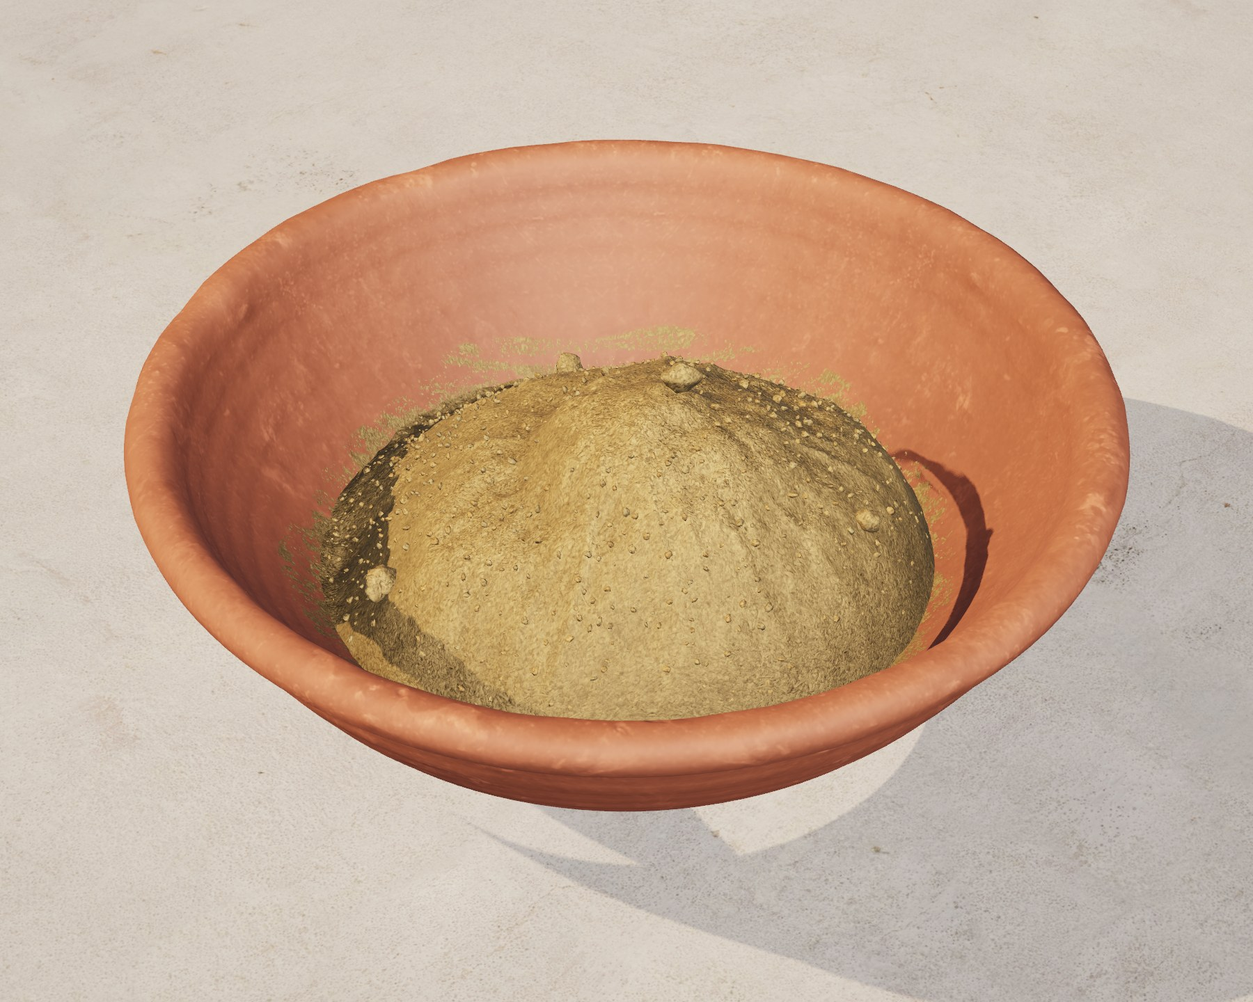
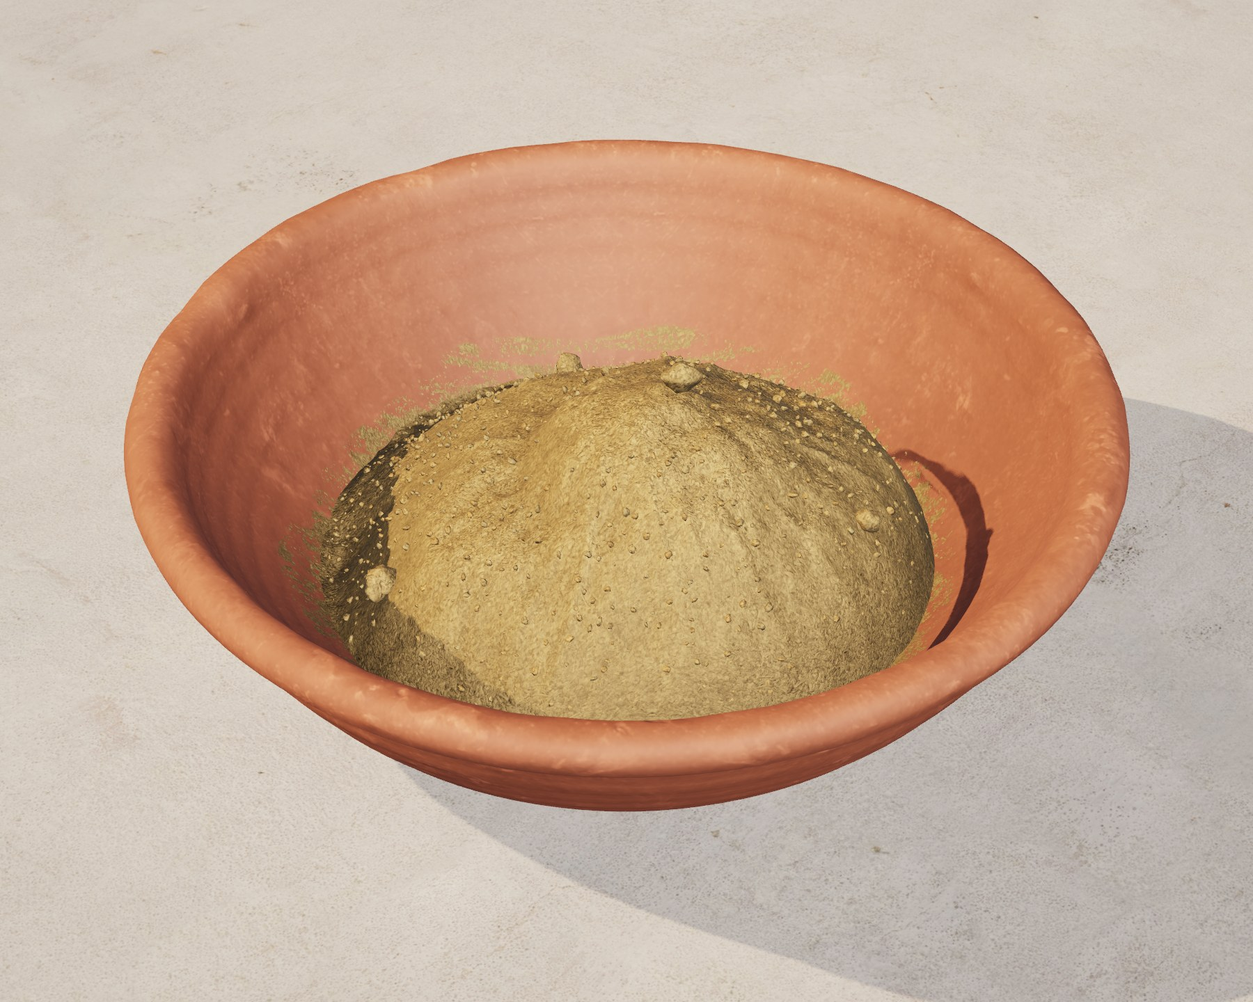
Admit only staff roles at the invite gate, withdraw every session, analyse a reassigned participant once, and let clay vessels stop the sun (DR-105)
hasSiteAccess admitted any signed-in account, so a role-less Google sign-up
could start the demo or enrol in a study without an invite. Withdrawal now
flags every session of the participant, and analytics and the dashboard
telemetry read a reassigned participant in the condition of their analysed
session only. The fired-clay material casts shadows from both faces, so the
shadow bias no longer erases the lower wall and sunlight stops leaking under
the bowl. The 28 Door 1 stills that hold a bowl or pot were rendered again.

diff --git a/src/server/research/analytics.ts b/src/server/research/analytics.ts
@@ -100,46 +100,40 @@ export interface MetricDistribution {
   nullCount: number;
 }
 
-const ANALYSABLE = "NOT ss.excluded AND NOT ss.withdrawn";
+const ANALYSED_SESSIONS_SQL = `
+  SELECT DISTINCT ON (participant_id) participant_id, id, condition_id, excluded, withdrawn
+    FROM study_sessions
+   WHERE study_id = $1 AND condition_id IS NOT NULL
+   ORDER BY participant_id, period DESC, id DESC`;
 
-/**
- * Outcome distributions from derived_scores: one value per analysable, allocated session and
- * administration (latest row per session, metric, version, assessment and map phase).
- *
- * Final review scoring-07:
- *  - response-level rows (item.key_match, rubric.rating.*) are left out: one session has one row
- *    per item, so a per-session distribution would keep an arbitrary item (the per-item and
- *    per-rubric statistics are on the dashboard);
- *  - each administration is its own distribution: concept-map scores by map phase (one assessment
- *    yields a pre and a post map), every other score by assessment kind, code and version, so the
- *    pre-test, post-test and transfer totals are never pooled (prior knowledge vs outcome);
- *  - concept-map scores are read against the study's analysis reference map only (scoring-04).
- */
+const ANALYSABLE = "NOT an.excluded AND NOT an.withdrawn";
+
 export async function outcomeDistributions(q: Q, studyId: string, opts: { includeExcluded?: boolean } = {}): Promise<MetricDistribution[]> {
   const r = await q.query<{ metric_name: string; metric_version: string; condition_id: string; value: number | null }>(
-    `WITH ar AS (${ANALYSIS_REFERENCES_SQL})
-     SELECT DISTINCT ON (ds.session_id, ds.metric_name, ds.metric_version, ds.assessment_id, cm.phase)
+    `WITH ar AS (${ANALYSIS_REFERENCES_SQL}), an AS (${ANALYSED_SESSIONS_SQL})
+     SELECT DISTINCT ON (an.id, ds.metric_name, ds.metric_version, ds.assessment_id, cm.phase)
             CASE WHEN cm.phase IS NOT NULL THEN ds.metric_name || ' (' || cm.phase::text || ')'
                  ELSE ds.metric_name || ' (' || a.kind::text || ' ' || a.code || ' v' || a.version || ')' END AS metric_name,
-            ds.metric_version, ss.condition_id, ds.value
+            ds.metric_version, an.condition_id, ds.value
        FROM derived_scores ds JOIN study_sessions ss ON ss.id = ds.session_id
+       JOIN an ON an.participant_id = ss.participant_id
        JOIN assessments a ON a.id = ds.assessment_id
        LEFT JOIN concept_maps cm ON cm.id = ds.concept_map_id
        LEFT JOIN ar ON ar.assessment_id = ds.assessment_id
-      WHERE ss.study_id = $1 AND ss.condition_id IS NOT NULL AND ($2 OR (${ANALYSABLE}))
+      WHERE ss.study_id = $1 AND ($2 OR (${ANALYSABLE}))
         AND ds.response_id IS NULL
         AND (ds.concept_map_id IS NULL OR ds.reference_map_id IS NOT DISTINCT FROM ar.reference_map_id)
-      ORDER BY ds.session_id, ds.metric_name, ds.metric_version, ds.assessment_id, cm.phase, ds.computed_at DESC`,
+      ORDER BY an.id, ds.metric_name, ds.metric_version, ds.assessment_id, cm.phase, ss.period DESC, ds.computed_at DESC`,
     [studyId, opts.includeExcluded ?? false],
   );
   return group(r.rows);
 }
 
-/** Behavioural metric distributions from derived_metrics. */
 export async function behaviourDistributions(q: Q, studyId: string, opts: { includeExcluded?: boolean } = {}): Promise<MetricDistribution[]> {
   const r = await q.query<{ metric_name: string; metric_version: string; condition_id: string; value: number | null }>(
-    `SELECT dm.metric_name, dm.metric_version, dm.condition_id, dm.value
-       FROM derived_metrics dm JOIN study_sessions ss ON ss.id = dm.session_id
+    `WITH an AS (${ANALYSED_SESSIONS_SQL})
+     SELECT dm.metric_name, dm.metric_version, dm.condition_id, dm.value
+       FROM derived_metrics dm JOIN an ON an.id = dm.session_id
       WHERE dm.study_id = $1 AND ($2 OR (${ANALYSABLE}))`,
     [studyId, opts.includeExcluded ?? false],
   );
@@ -157,10 +151,10 @@ function group(rows: { metric_name: string; metric_version: string; condition_id
   return [...by.values()].sort((a, b) => (a.metricName < b.metricName ? -1 : 1));
 }
 
-/** Correspondence details (navigation vs concept map) summed per condition. */
 export async function correspondenceSummary(q: Q, studyId: string) {
   const r = await q.query<{ condition_id: string; details: Record<string, number | boolean> }>(
-    `SELECT dm.condition_id, dm.details FROM derived_metrics dm JOIN study_sessions ss ON ss.id = dm.session_id
+    `WITH an AS (${ANALYSED_SESSIONS_SQL})
+     SELECT dm.condition_id, dm.details FROM derived_metrics dm JOIN an ON an.id = dm.session_id
       WHERE dm.study_id = $1 AND dm.metric_name = 'nav.map_correspondence' AND ${ANALYSABLE}`,
     [studyId],
   );
@@ -183,13 +177,10 @@ export interface TransitionMatrix {
   transitions: number;
 }
 
-/**
- * First-order transition matrices between knowledge categories of consecutive concept visits
- * (visit = exposure interval; ../metrics/navigation.ts), per condition.
- */
 export async function transitionMatrices(q: Q, studyId: string): Promise<TransitionMatrix[]> {
   const sess = await q.query<{ id: string; condition_id: string; snapshot_id: string | null }>(
-    `SELECT ss.id, ss.condition_id, ss.snapshot_id FROM study_sessions ss WHERE ss.study_id = $1 AND ${ANALYSABLE}`,
+    `WITH an AS (${ANALYSED_SESSIONS_SQL})
+     SELECT an.id, an.condition_id, ss.snapshot_id FROM an JOIN study_sessions ss ON ss.id = an.id WHERE ${ANALYSABLE}`,
     [studyId],
   );
   const labels = [...KNOWLEDGE_CATEGORY_CODES];

diff --git a/tests/integration/study-engine-review-fixes.test.ts b/tests/integration/study-engine-review-fixes.test.ts
@@ -30,10 +30,13 @@ import {
   completeFamiliarisation,
   submitAssessment,
   syncPosition,
+  withdraw,
   type DeviceReport,
   type EnrollableStudy,
   type OpenedSession,
 } from "../../src/server/study/engine";
+import { behaviourDistributions, outcomeDistributions, transitionMatrices } from "../../src/server/research/analytics";
+import { loadDashboard } from "../../src/server/research/dashboard";
 import { seedInstrumentDefinitions } from "../../src/server/study/instruments";
 import {
   TEST_URL,
@@ -279,5 +282,42 @@ describe.skipIf(!TEST_URL)("study engine: final review fixes", { timeout: 60_000
     expect(attempts.rows).toEqual([{ session_id: s.sessionId, attempt: 1 }, { session_id: out.sessionId, attempt: 2 }]);
     const order = (await state(out.sessionId)).traditionOrder;
     expect(order).toEqual((await state(s.sessionId)).traditionOrder);
+  });
+
+  it("a reassigned participant is analysed once, in the arm of the session that replaced the abandoned one, and withdrawing withdraws both", async () => {
+    const study = await activeStudy({ steps: BASIC_STEPS, webglFailurePolicy: "reassign" }, BASIC);
+    const s = await allocatedTo(study, "immersive");
+    await completeOnboarding(t.pool, s.sessionId);
+    const out = await recordWalkthroughWebglFailure(t.pool, s.sessionId, { webglVersion: null, softwareRenderer: false }, { appBuild: BUILD });
+    expect(out.kind).toBe("reassigned");
+    if (out.kind !== "reassigned") return;
+    const conditionOf = async (sessionId: string) => (await one<{ c: string }>(t.pool, "SELECT condition_id AS c FROM study_sessions WHERE id = $1", [sessionId])).c;
+    const immersiveId = await conditionOf(s.sessionId);
+    const twoDId = await conditionOf(out.sessionId);
+    await t.pool.query(
+      `INSERT INTO derived_metrics (study_id, participant_id, session_id, condition_id, metric_name, metric_version, value, input_event_count, input_sha256, pipeline_version)
+       VALUES ($1, $2, $3, $4, 'time.exposure_total_ms', '1.0.0', 1000, 0, $5, 'test')`,
+      [study.id, s.participantId, s.sessionId, immersiveId, "a".repeat(64)],
+    );
+    await t.pool.query(
+      "INSERT INTO derived_scores (session_id, participant_id, assessment_id, metric_name, metric_version, value, pipeline_version) VALUES ($1, $2, $3, 'assessment.key_match_total', '1.0.0', 2, 'test')",
+      [s.sessionId, s.participantId, ids["fx-pre"]],
+    );
+    const preTotal = async () => (await outcomeDistributions(t.pool, study.id)).find((d) => d.metricName === "assessment.key_match_total (pretest fx-pre v1)");
+    expect(Object.keys((await preTotal())?.byCondition ?? {})).toEqual([twoDId]);
+    expect((await preTotal())!.byCondition[twoDId]).toEqual([2]);
+    expect(await behaviourDistributions(t.pool, study.id)).toEqual([]);
+    expect((await transitionMatrices(t.pool, study.id)).map((m) => m.conditionId)).toEqual([twoDId]);
+    const ownRows = async () => (await loadDashboard(t.pool, study.id))!.telemetry.sessions.filter((r) => r.sessionId === s.sessionId || r.sessionId === out.sessionId);
+    const dashboard = (await loadDashboard(t.pool, study.id))!;
+    expect((await ownRows()).map((r) => [r.sessionId, r.conditionId])).toEqual([[out.sessionId, twoDId]]);
+    expect(dashboard.knowledge.find((k) => k.label === "fx-pre v1 (pretest)")!.byCondition.find((c) => c.conditionId === immersiveId)?.stats.n ?? 0).toBe(0);
+
+    await withdraw(t.pool, { participantId: s.participantId, sessionId: out.sessionId, reason: "no_time" });
+    const flags = await t.pool.query<{ id: string; withdrawn: boolean }>("SELECT id, withdrawn FROM study_sessions WHERE participant_id = $1 ORDER BY period", [s.participantId]);
+    expect(flags.rows).toEqual([{ id: s.sessionId, withdrawn: true }, { id: out.sessionId, withdrawn: true }]);
+    expect(await preTotal()).toBeUndefined();
+    expect(await behaviourDistributions(t.pool, study.id, { includeExcluded: true })).toHaveLength(0);
+    expect(await ownRows()).toEqual([]);
   });
 });

diff --git a/src/server/access/site-access.ts b/src/server/access/site-access.ts
@@ -1,14 +1,3 @@
-/**
- * Server-side half of the invite gate (deployment source change S11).
- *
- * src/proxy.ts redirects visitors without an invite cookie (or a staff session cookie) before a
- * page renders, but it only verifies the cookie's signature and does not look at the database,
- * and it trusts the mere presence of a staff session cookie. The entry points that create a
- * study or demo session (`enterStudy`, `startPublicDemo`) call `requireSiteAccess` as well, so a
- * forged staff cookie or a revoked code can never start one:
- *  - a verified staff session (Better Auth, via getStaffPrincipal) passes;
- *  - otherwise the invite cookie must verify AND its code must not be revoked.
- */
 import "server-only";
 
 import { cookies } from "next/headers";
@@ -17,23 +6,23 @@ import { cache } from "react";
 
 import { invitePath } from "@/lib/access/invite-paths";
 import { serverEnv } from "@/lib/env";
+import { isStaffRole } from "@/lib/permissions/roles";
 import { getStaffPrincipal } from "@/server/auth/staff";
 import { getPool } from "@/server/db/client";
 
 import { INVITE_COOKIE, verifyInviteAccess } from "./invite-cookie";
 import { inviteNotRevoked } from "./invites";
 
-/** Does this request carry valid site access? Memoised per request. */
 export const hasSiteAccess = cache(async (): Promise<boolean> => {
   const token = (await cookies()).get(INVITE_COOKIE)?.value;
   if (token !== undefined) {
     const verified = await verifyInviteAccess(token, serverEnv().BETTER_AUTH_SECRET);
     if (verified.ok && (await inviteNotRevoked(getPool(), verified.claims.inviteId))) return true;
   }
-  return (await getStaffPrincipal()) !== null;
+  const principal = await getStaffPrincipal();
+  return principal !== null && principal.roles.some(isStaffRole);
 });
 
-/** Redirects to the invite page (remembering `next`) unless the request has site access. */
 export async function requireSiteAccess(next: string): Promise<void> {
   if (!(await hasSiteAccess())) redirect(invitePath(next));
 }

diff --git a/src/server/study/engine.ts b/src/server/study/engine.ts
@@ -1712,12 +1712,6 @@ export async function closeStaleSessions(pool: Pool | PoolClient, studyId: strin
 export const WITHDRAWAL_REASONS = ["not_stated", "no_longer_wish_to_take_part", "no_time", "technical_problem", "felt_unwell"] as const;
 export type WithdrawalReason = (typeof WITHDRAWAL_REASONS)[number];
 
-/**
- * Withdraws the participant at any point: a `withdrawn` consent record, the participant marked
- * withdrawn, and the open session (if any) flagged withdrawn. Nothing is deleted: the data
- * already collected is kept under the study's retention policy (config.retentionDays); removing
- * it is a separate, reasoned purge by the research team (app.research_purge_reason).
- */
 export async function withdraw(pool: Pool | PoolClient, input: { participantId: string; sessionId?: string | null; reason: WithdrawalReason }): Promise<{ retentionDays: number | null }> {
   return withTx(pool, async (c) => {
     const p = await loadParticipant(c, input.participantId);
@@ -1740,8 +1734,8 @@ export async function withdraw(pool: Pool | PoolClient, input: { participantId: 
     const sessionId = input.sessionId ?? p.sessionId;
     const retentionDays = study.protocol.config.retentionDays ?? null;
     const after = { reason: input.reason, retentionDays, dataKept: true };
+    await c.query("UPDATE study_sessions SET withdrawn = true, withdrawn_at = coalesce(withdrawn_at, now()) WHERE participant_id = $1 AND NOT withdrawn", [p.id]);
     if (sessionId) {
-      await c.query("UPDATE study_sessions SET withdrawn = true, withdrawn_at = coalesce(withdrawn_at, now()) WHERE id = $1 AND participant_id = $2", [sessionId, p.id]);
       await journal(c, { kind: "participant", code: p.code }, "study.participant_withdrawn", "study_session", sessionId, after);
     } else {
       await journal(c, { kind: "participant", code: p.code }, "study.participant_withdrawn", "participant", p.id, after);

diff --git a/tests/unit/access/site-access.test.ts b/tests/unit/access/site-access.test.ts
@@ -1,0 +1,43 @@
+import { beforeEach, describe, expect, it, vi } from "vitest";
+
+const state = vi.hoisted(() => ({
+  principal: null as null | { roles: readonly string[] },
+  redirected: [] as string[],
+}));
+
+vi.mock("next/headers", () => ({ cookies: async () => ({ get: () => undefined }) }));
+vi.mock("next/navigation", () => ({
+  redirect: (to: string) => {
+    state.redirected.push(to);
+    throw new Error(`redirect ${to}`);
+  },
+}));
+vi.mock("react", async (importOriginal) => ({ ...(await importOriginal<object>()), cache: <T>(fn: T) => fn }));
+vi.mock("@/server/auth/staff", () => ({ getStaffPrincipal: async () => state.principal }));
+vi.mock("@/server/db/client", () => ({ getPool: () => ({}) }));
+
+const { hasSiteAccess, requireSiteAccess } = await import("@/server/access/site-access");
+
+describe("server-side invite gate", () => {
+  beforeEach(() => {
+    state.principal = null;
+    state.redirected = [];
+  });
+
+  it("refuses a signed-in account that holds no staff role, as a fresh Google sign-up does", async () => {
+    state.principal = { roles: [] };
+    expect(await hasSiteAccess()).toBe(false);
+    await expect(requireSiteAccess("/study")).rejects.toThrow("redirect");
+    expect(state.redirected).toEqual(["/invite?next=%2Fstudy"]);
+  });
+
+  it("refuses a visitor with neither an invite nor a session", async () => {
+    expect(await hasSiteAccess()).toBe(false);
+  });
+
+  it("admits a signed-in account that holds a staff role", async () => {
+    state.principal = { roles: ["researcher"] };
+    expect(await hasSiteAccess()).toBe(true);
+    await expect(requireSiteAccess("/explore")).resolves.toBeUndefined();
+  });
+});

diff --git a/tests/e2e/staff-and-access.spec.ts b/tests/e2e/staff-and-access.spec.ts
@@ -110,6 +110,20 @@ test("a signed-in account without a role waits at /awaiting-access until an admi
     await expect(page, path).toHaveURL(/\/awaiting-access$/);
   }
 
+  const uninvited = await newContext(browser, UNINVITED);
+  const stranger = await uninvited.newPage();
+  await signInStaff(stranger, WAITING, PASSWORD);
+  await expect(stranger).toHaveURL(/\/awaiting-access$/);
+  await stranger.goto("/explore");
+  await stranger.getByRole("button", { name: /^Open / }).first().click();
+  await expect(stranger).toHaveURL(/\/invite\?next=%2Fexplore/);
+  await stranger.goto("/study");
+  await stranger.getByLabel("Study code").fill(JOURNEY_STUDY);
+  await stranger.getByRole("button", { name: "Continue" }).click();
+  await expect(stranger).toHaveURL(/\/invite\?next=%2Fstudy/);
+  expect((await uninvited.cookies()).map((c) => c.name).filter((name) => /ie_demo|ie_study_session/.test(name))).toEqual([]);
+  await uninvited.close();
+
   const adminContext = await newContext(browser);
   const admin = await adminContext.newPage();
   await signInStaff(admin, ADMIN, PASSWORD);

diff --git a/tests/unit/walkthrough/vessel-shadow.test.ts b/tests/unit/walkthrough/vessel-shadow.test.ts
@@ -1,0 +1,19 @@
+import * as THREE from "three";
+import { describe, expect, it } from "vitest";
+import { buildThrownVessel } from "@/features/walkthrough/infrastructure/built-vessels";
+import type { MaterialLibrary } from "@/features/walkthrough/infrastructure/material-library";
+
+const library = {
+  shared: <T extends object>(_key: string, build: () => Promise<T>) => build(),
+  scan: async () => ({ colour: new THREE.Texture(), normal: new THREE.Texture(), roughness: new THREE.Texture(), tileMetres: 0.36 }),
+} as unknown as MaterialLibrary;
+
+describe.each(["clay-bowl", "clay-pot"] as const)("thrown %s shadow", (shape) => {
+  it("draws both faces into the shadow map, so the base stops the sun on the ground beside its foot", async () => {
+    const vessel = (await buildThrownVessel(library, shape)) as THREE.Mesh;
+    const material = vessel.material as THREE.MeshStandardMaterial;
+    expect(vessel.castShadow).toBe(true);
+    expect(material.side).toBe(THREE.FrontSide);
+    expect(material.shadowSide).toBe(THREE.DoubleSide);
+  });
+});

diff --git a/src/features/walkthrough/infrastructure/built-vessels.ts b/src/features/walkthrough/infrastructure/built-vessels.ts
@@ -22,5 +22,6 @@ function thrownGeometry(form: ThrownForm): THREE.BufferGeometry {
 
 export async function buildThrownVessel(library: MaterialLibrary, shape: ThrownShape): Promise<THREE.Object3D> {
   const [geometry, material] = await Promise.all([library.shared(`thrown:${shape}`, async () => thrownGeometry(FORMS[shape])), projectedMaterial(library, FIRED_CLAY)]);
+  material.shadowSide = THREE.DoubleSide;
   return solidMesh(geometry, material);
 }

diff --git a/src/server/research/dashboard.ts b/src/server/research/dashboard.ts
@@ -458,7 +458,7 @@ export async function loadDashboard(q: Q, studyId: string, opts: LoadOptions = {
   }
   const telemetrySessions: SessionTelemetryRow[] = [];
   for (const s of sessionInfo.values()) {
-    if (!s.inScope || !s.conditionId) continue;
+    if (!s.inScope || !s.conditionId || analysedSessionOf(s.id) !== s.id) continue;
     const t = tel(s.id);
     telemetrySessions.push({
       sessionId: s.id,

diff --git a/docs/research/design-process/decisions.md b/docs/research/design-process/decisions.md
@@ -3634,3 +3634,13 @@ novice met, and none touches the sheet.
 - **Iris Xe route:** two Ajrakh runs on the headless shell were stopped by a free-RAM guard; the second reached leg 3 with the largest headless-shell process at 7633 MB and free RAM at 291 MB (leg 2 worst frame 34 ms). This is DR-099's open texture-upload cost; the Sanganeri and Kalamkari Iris Xe routes were not attempted for that reason.
 - **Removed:** the low-spec Playwright project matched `immersive-rendering.spec.ts`, deleted with the old doors in DR-076; it now matches only the renderer check.
 - **Paper implications:** none for the study design. The e2e figures above are engineering checks of the study flow, not study data.
+
+## DR-105: The Invite Gate Admits Only Staff Roles; Withdrawal Covers Every Session; A Reassigned Participant Is Analysed Once; Clay Vessels Stop The Sun (Adopted under the lead's delegation, 2026-11-06)
+- **Trigger:** seven review findings against `walking-the-process` at cafa873. Each was confirmed by reading the code or by running it before anything was changed. DR-101 to DR-104 are left to the parallel workflow branches, one of which already uses DR-104.
+- **Invite gate (confirmed, fixed).** `hasSiteAccess` let any signed-in Better Auth account through, so a Google sign-up with no role (DR-096) could start the public demo or enrol in a live study without an invite code. Now an account passes only when it holds a staff role (`roles.some(isStaffRole)`, the same test that `telemetry/principal.ts` and `learning-decision.ts` apply). The proxy still treats a session cookie as admitted, because it cannot read roles without the database. Such an account can read the public information pages and nothing more. RUNBOOK 6.4 now says this. Tests: `tests/unit/access/site-access.test.ts` (it fails against the old code), and the awaiting-access e2e signs a role-less account in from a browser with no invite. Opening the demo and entering a study code both end at `/invite`, and the browser receives no demo or study cookie.
+- **Withdrawal (confirmed, fixed).** `withdraw` flagged only the session in the cookie. After a WebGL reassignment, the abandoned immersive session kept the pre-test and any learning data and stayed analysable. Withdrawal now flags every session of the participant. `withdrawn_at` is set once, and the existing terminal triggers allow this.
+- **Attribution after a reassignment (confirmed, fixed).** Analytics took the condition from the row's own session. A reassigned participant's pre-test therefore counted under immersive and the post-test under 2D. `outcomeDistributions` now reads every score in the condition and scope of the participant's analysed session: the latest period with a condition, the same rule as `analysedSessionOf` on the dashboard. One value per participant and administration is kept. `behaviourDistributions`, `correspondenceSummary`, `transitionMatrices` and the dashboard telemetry summary count the analysed session only, so the abandoned session's partial learning telemetry leaves both arms. It stays in the export and in the data-quality figures. Test: the reassignment case in `tests/integration/study-engine-review-fixes.test.ts`, which fails on the old analytics and on the old withdrawal.
+- **Sun through the clay bowl (confirmed, fixed).** Measured, not inferred. The vessel mesh is wound outward, so the cause is not the winding. A front-side material casts its shadow with its back faces. For a ray that reaches the ground just past the foot, the back face it leaves through is the lower outer wall, within 2 to 3 cm of the ground. The shadow bias (-0.00025 of a 119 m depth range, about 3 cm) erases that occluder. The fired-clay material now casts from both faces (`shadowSide = DoubleSide`), and its look and front-face rendering are unchanged. The renders below are on NVIDIA, with the renderer string confirmed. Alum still, at the leaking pixel (1100,1170): before 220,211,200, after 193,186,181, against the shadow beside it at 186,179,175. Harde still (1100,1180): before 219,209,198, after 190,183,179. Tearing check on Ajrakh n=2 to n=5: 0 failing objects of 62, 75, 50 and 48, with all four planted faults caught. All 53 Door 1 object stills were rendered again. 28 that hold a bowl or pot changed (mean absolute change 0.08 to 0.41 per channel) and were kept; 4 differed only in JPEG bytes (0.000 to 0.004) and were left as committed. Test: `tests/unit/walkthrough/vessel-shadow.test.ts`.
+- **Commit email (confirmed, not changed).** 77 commits carry the personal Hotmail address as author and committer, including 67 that are not pushed (all of origin/main..HEAD). Removing it means rewriting history and changing the git identity. Both are the user's decisions, and the machine rules forbid an agent from switching identity. Nothing was rewritten. Before any push, the user decides whether to rewrite the history to the GitHub noreply address that other commits already use.
+- **Hall shimmer and the Iris Xe frame budget (confirmed, not fixed here).** Both are real and stay open as DR-099 and DR-100 record them. They are being worked in parallel: a filtered-mip branch for the hall photographs and a texture-upload measurement for integrated graphics. A timing figure taken now would be invalid, because another heavy workflow was running on the machine.
+- **Paper implications:** the withdrawal and attribution fixes change what the analytics count for any reassigned or withdrawn participant. Analyses should use the analysed-session rule above.

diff --git a/docs/deploy/RUNBOOK.md b/docs/deploy/RUNBOOK.md
@@ -495,7 +495,7 @@ Staff can sign in with Google as well as with email and password. Participants n
 |---|---|
 | Google email matches an existing staff account, and Google says the email is verified | Google is joined to that account; it signs in with its existing roles |
 | Google email matches an existing staff account, but is not verified by Google | Not joined, no session; the sign-in page says to use the password |
-| New Google account with a verified email | An account with **no role** is made; it lands on "Your account is waiting for an administrator" and opens nothing |
+| New Google account with a verified email | An account with **no role** is made; it lands on "Your account is waiting for an administrator". It cannot start a study, a demo or any staff page: the server-side invite gate admits a signed-in account only when it holds a staff role (DR-105). The proxy cannot read roles, so its session cookie still lets it read the public information pages |
 | New Google account with an unverified email | No account is made |
 | Locked account (`disabled_at` set) | No session, by either method |
 
